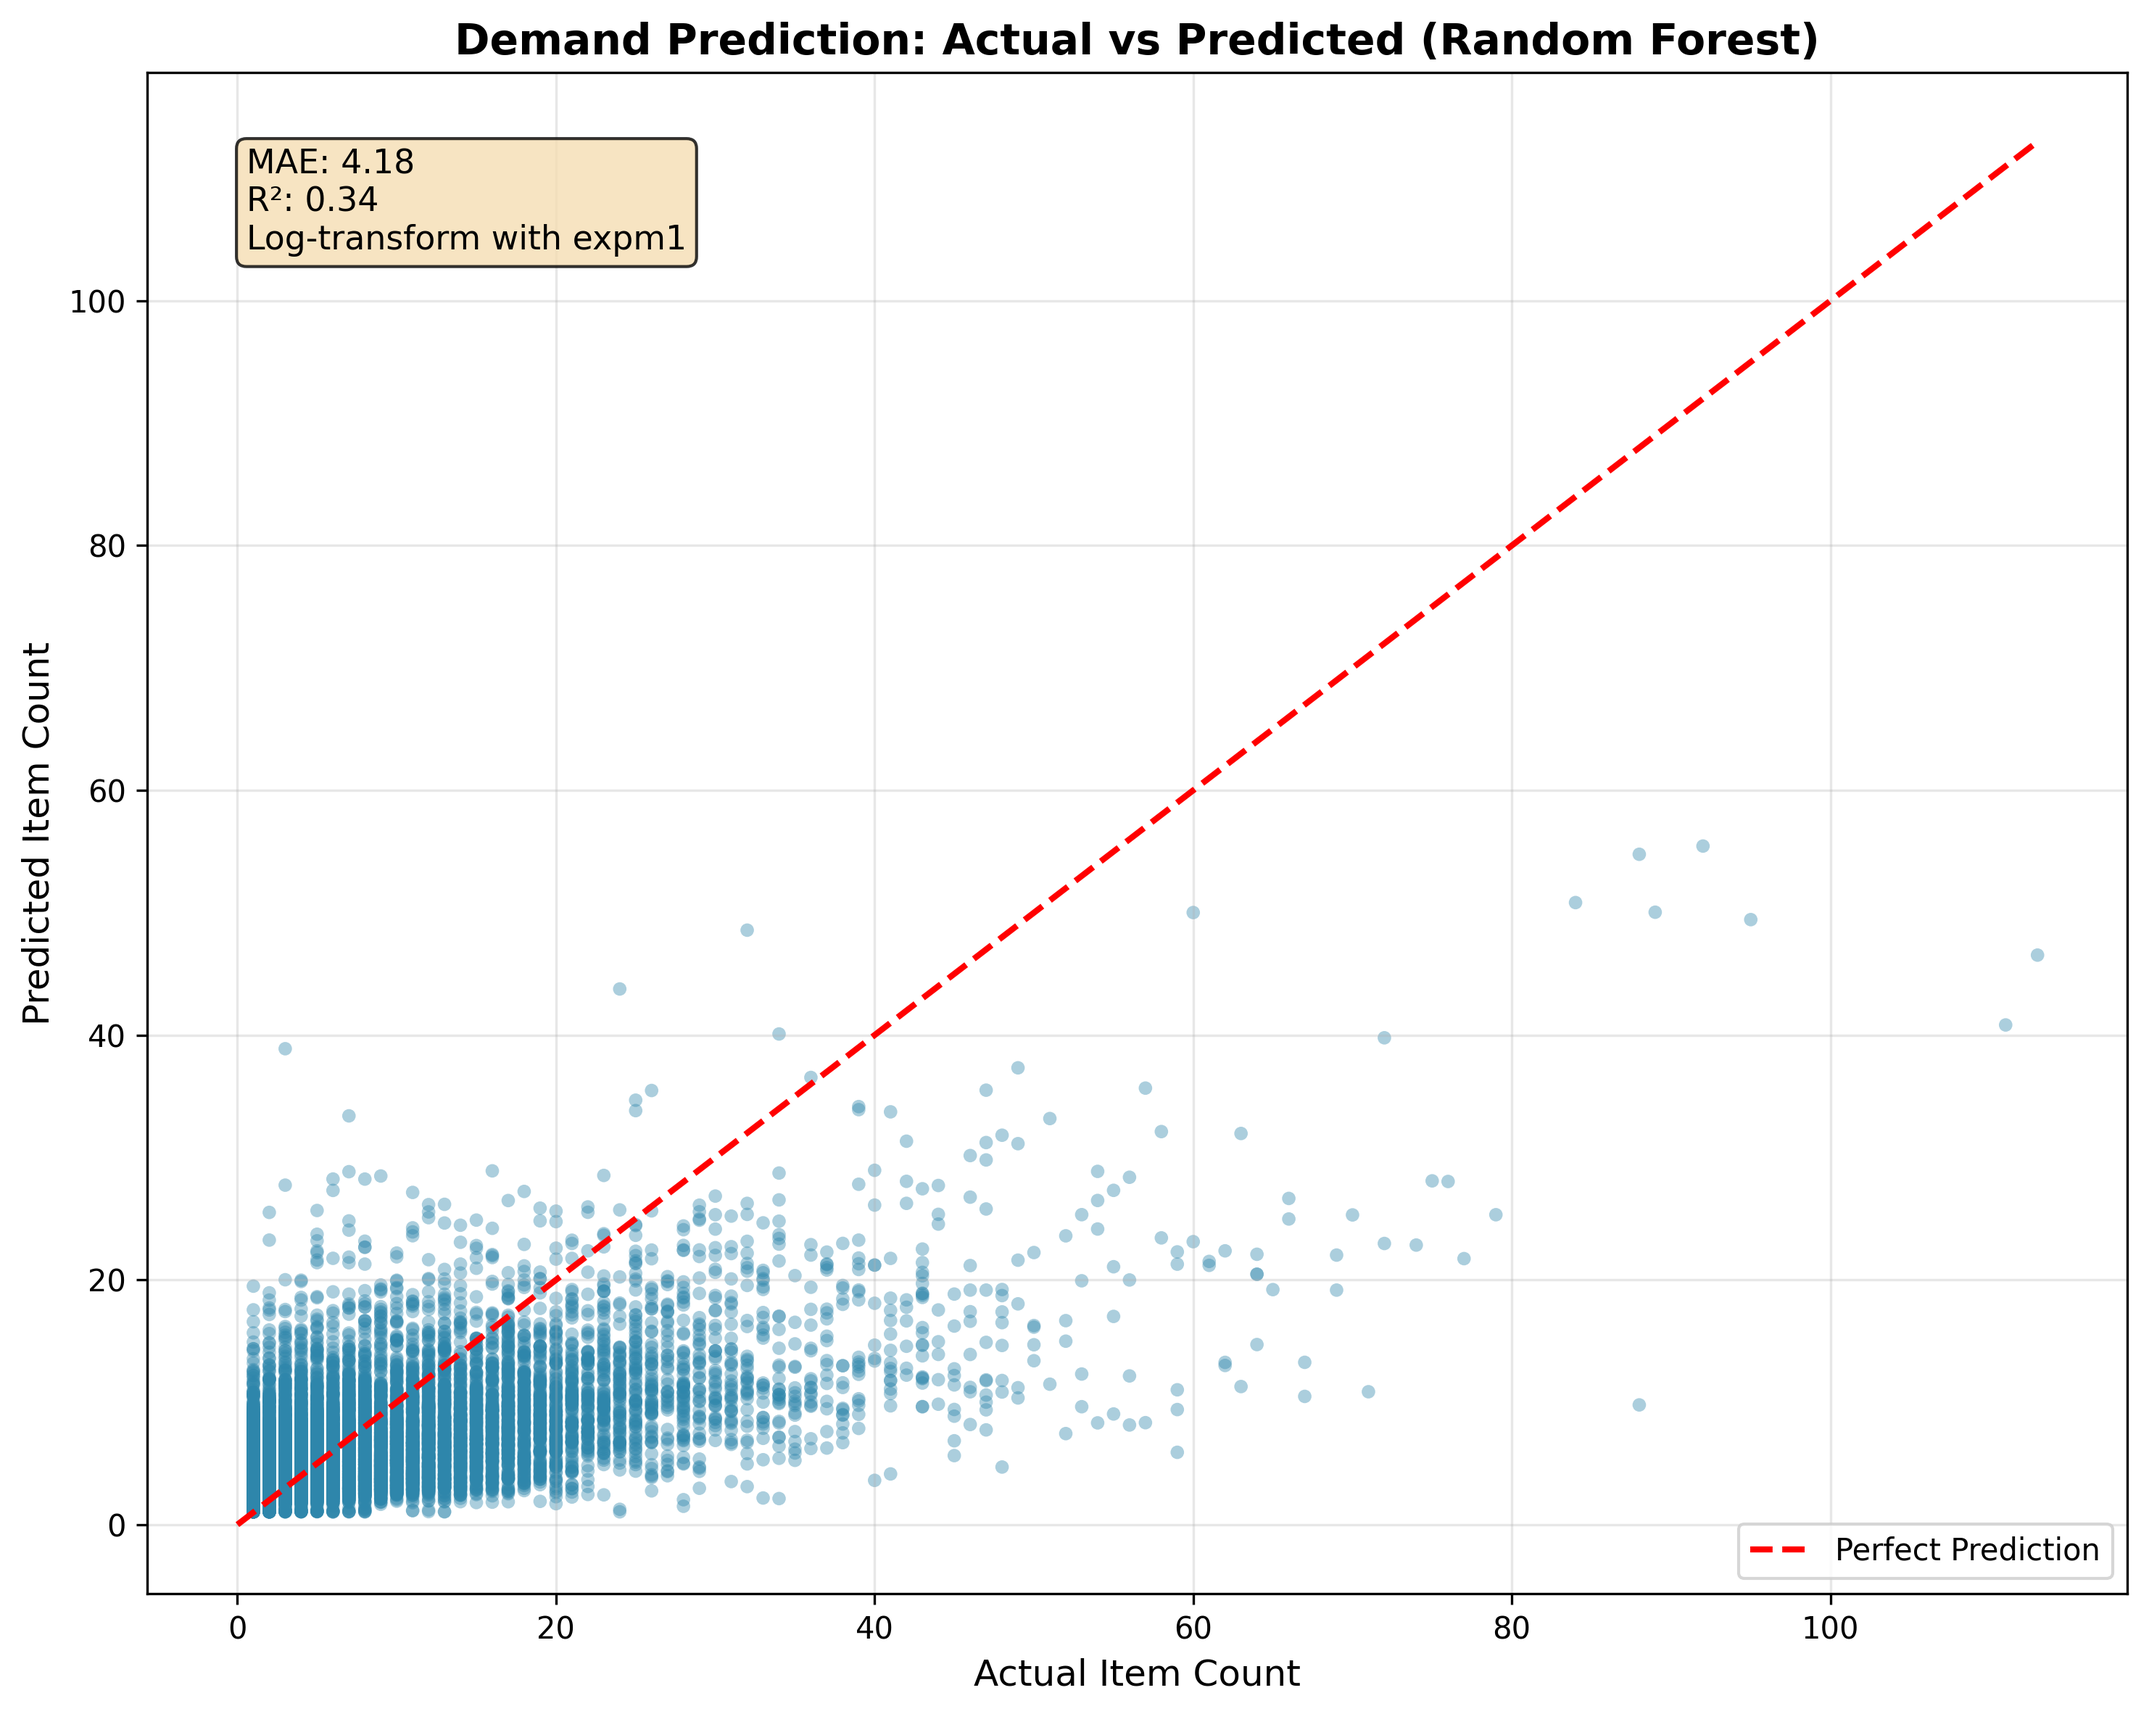
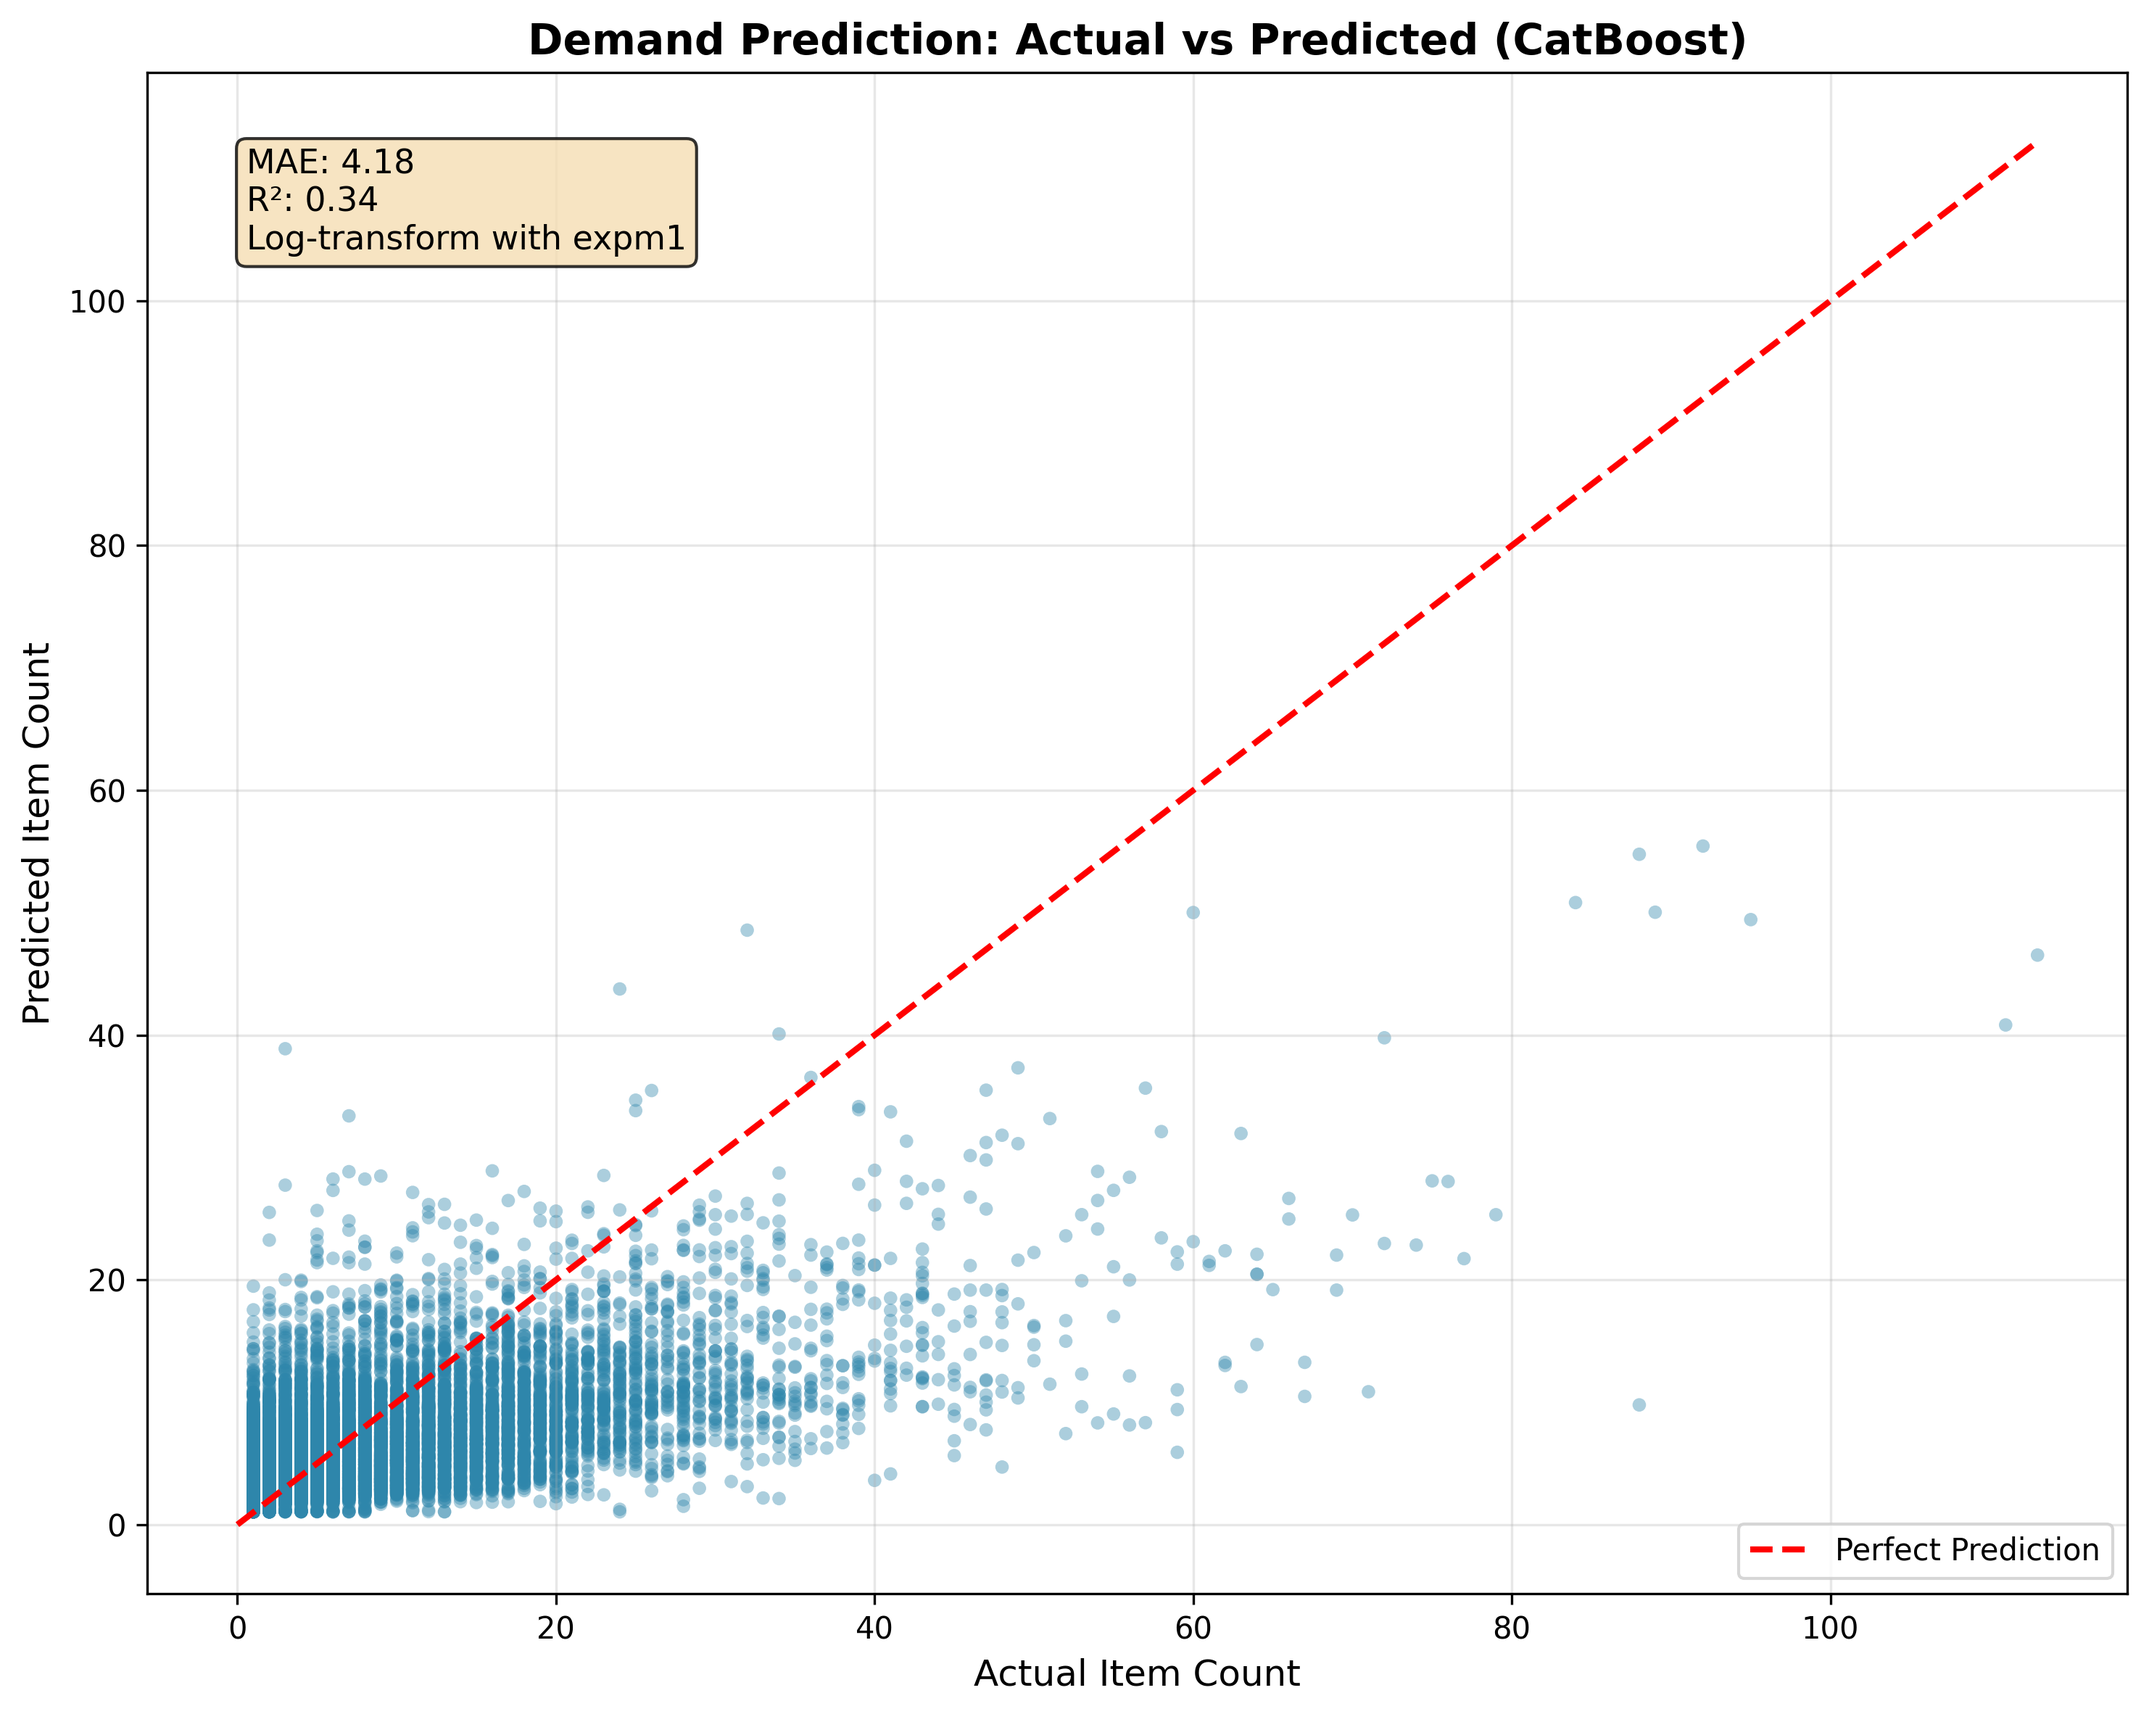
Modify the statistics scripts to be consistent with our model.

Changed region(s): [[0.2173, 0.0, 0.8381, 0.0309]]

diff --git a/app/ml/scripts/1.py b/app/ml/scripts/1.py
@@ -25,9 +25,9 @@ importance_df['feature'] = importance_df['feature'].str.replace('sclaler__', '')
 # Plot
 plt.figure(figsize=(10, 8))
 sns.barplot(data=importance_df, y='feature', x='importance', palette='viridis')
-plt.title('Top 15 Features - Random Forest Demand Prediction', fontsize=14, fontweight='bold')
+plt.title('Top 15 Features - CatBoost Demand Prediction', fontsize=14, fontweight='bold')
 plt.xlabel('Importance Score', fontsize=12)
 plt.ylabel('Feature', fontsize=12)
 plt.tight_layout()
 plt.savefig('feature_importance.png', dpi=300, bbox_inches='tight')
-plt.show()
+plt.show() 

diff --git a/app/ml/scripts/2.py b/app/ml/scripts/2.py
@@ -59,7 +59,7 @@ plt.text(0.05, 0.95, textstr, transform=plt.gca().transAxes,
 
 plt.xlabel('Actual Item Count', fontsize=12)
 plt.ylabel('Predicted Item Count', fontsize=12)
-plt.title('Demand Prediction: Actual vs Predicted (Random Forest)', 
+plt.title('Demand Prediction: Actual vs Predicted (CatBoost)', 
           fontsize=14, fontweight='bold')
 plt.legend(loc='lower right', fontsize=10)
 plt.grid(True, alpha=0.3)
